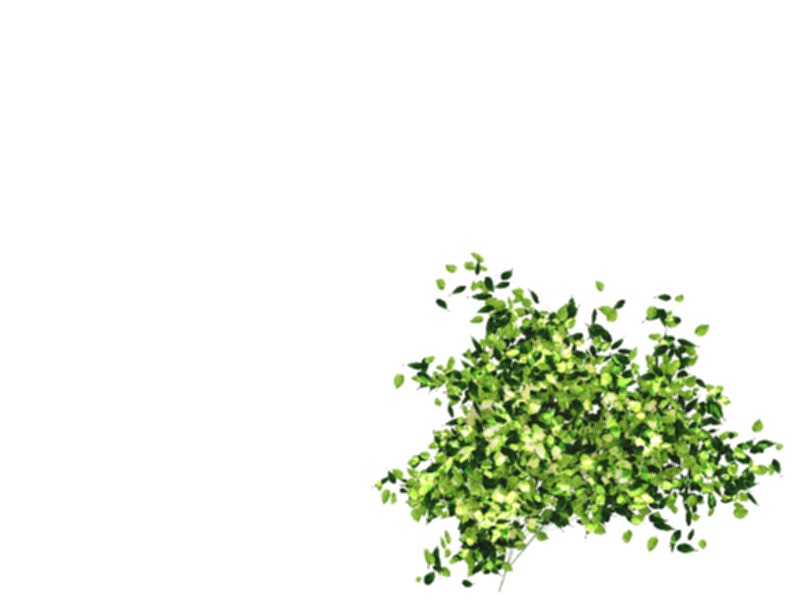
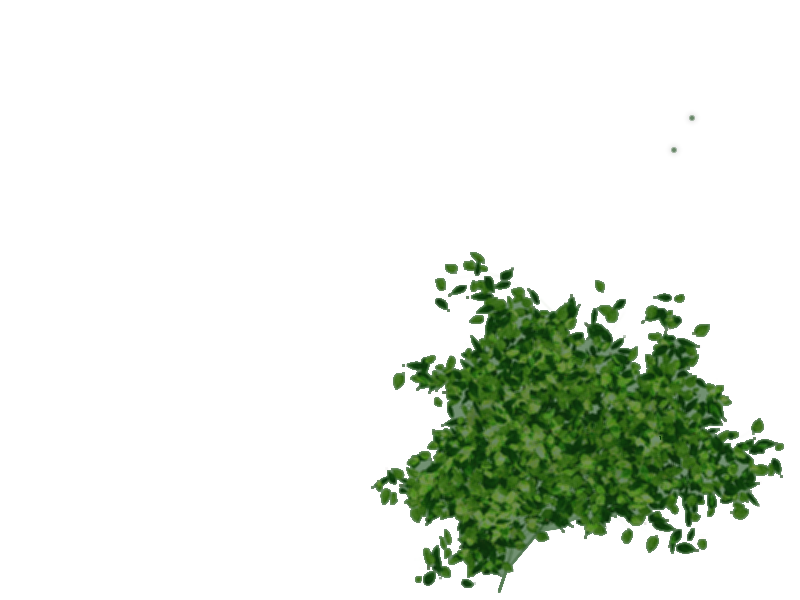
multiplayer (2 players..) location map

Changed region(s): [[0.4688, 0.42, 1.0, 0.99]]

diff --git a/client/webgl2.js b/client/webgl2.js
@@ -14,7 +14,7 @@ var t = 0;
 var don=false;
 var movementSpeed = 0.3;
 var frame=0;
-var lastpos=null;
+var lastposs=new Array();
 
 THREE.Euler = function ( x, y, z, order ) {
 
@@ -1176,7 +1176,9 @@ skyUniforms.bottomColor.value.g = e;
 skyUniforms.bottomColor.value.b = e;
 for (var prop in myJSONUserPosArray2) {
             var tt = JSON.parse(myJSONUserPosArray2[prop])
-        if ((    lastpos!=myJSONUserPosArray2[prop]) && (prop !=CONFIG.nick)) {
+        if ((    lastposs[prop]!=myJSONUserPosArray2[prop]) && (prop !=CONFIG.nick)) {
+            console.log(prop+' !='+CONFIG.nick+'&& '+lastposs[prop]+'!='+myJSONUserPosArray2[prop]);
+            var xc,yc,zc=0;
             for (var prop2 in tt) {
             if (prop2='x')
                 xc=tt[prop2];
@@ -1188,8 +1190,16 @@ for (var prop in myJSONUserPosArray2) {
             android.position.x=xc;
             android.position.y=yc;
             android.position.z=zc;
+
+            var xp=(52)-xc/1024*128;        
+            var yp=-(zc/1024*128-(56));
+
+            document.getElementById("pos2Div").style.display='';
+            document.getElementById("pos2Div").style.right=xp+'px';
+            document.getElementById("pos2Div").style.top=yp+'px';
+
         }
-        lastpos=myJSONUserPosArray2[prop]
+       lastposs[prop]=myJSONUserPosArray2[prop]
 
     }
     renderer.render( scene, camera );

diff --git a/index.html b/index.html
@@ -153,5 +153,7 @@ void main()
 		</div>
 		<div id="posDiv" style="z-index:1000;background-image : url(location.png);position:absolute;top:52px;right:56px;width : 16px;height : 16px;background-size: 100%;">
 		</div>
+		<div id="pos2Div" style="display:none;z-index:1000;background-image : url(location2.png);position:absolute;top:52px;right:56px;width : 16px;height : 16px;background-size: 100%;">
+		</div>
 	</body>
 </html>

diff --git a/server.js b/server.js
@@ -314,6 +314,7 @@ fu.get("/lensflare2.png", fu.staticHandler("lensflare2.png"));
 fu.get("/water.png", fu.staticHandler("water.png"));
 fu.get("/ShaderWater.js", fu.staticHandler("ShaderWater.js"));
 fu.get("/location.png", fu.staticHandler("location.png"));
+fu.get("/location2.png", fu.staticHandler("location2.png"));
 
 fu.get("/nature.js", fu.staticHandler("nature.js"));
 
